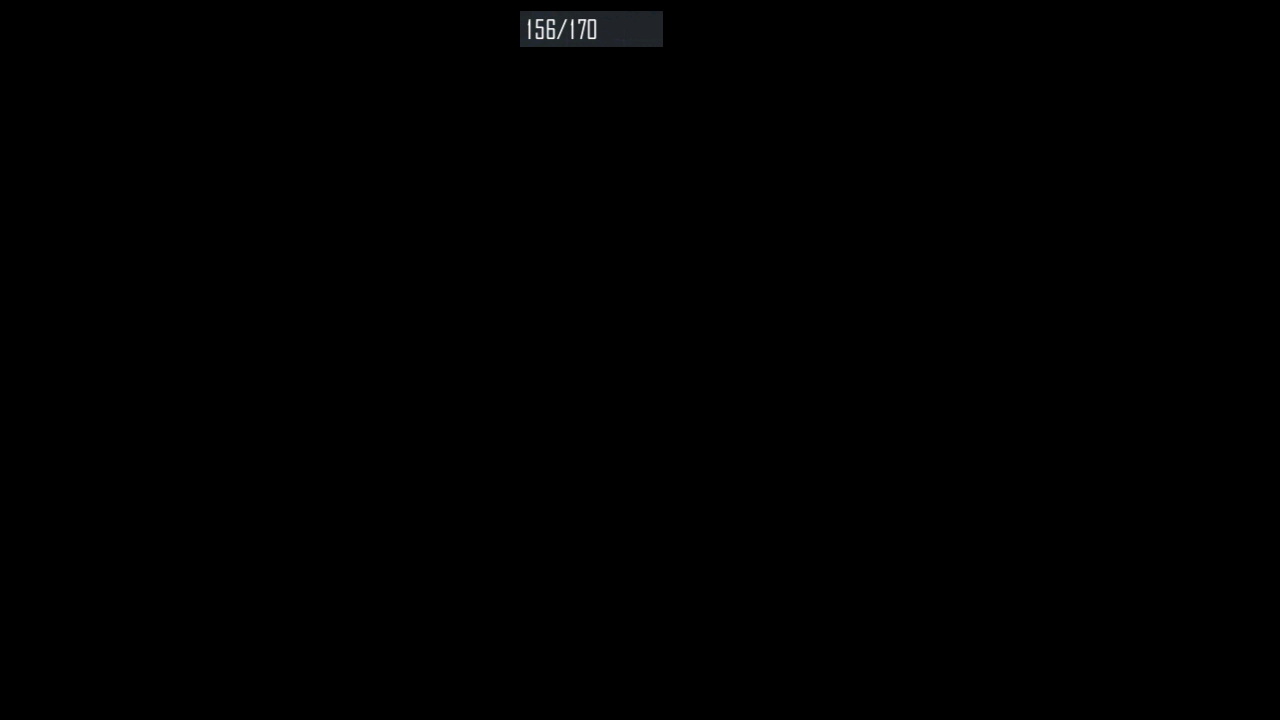
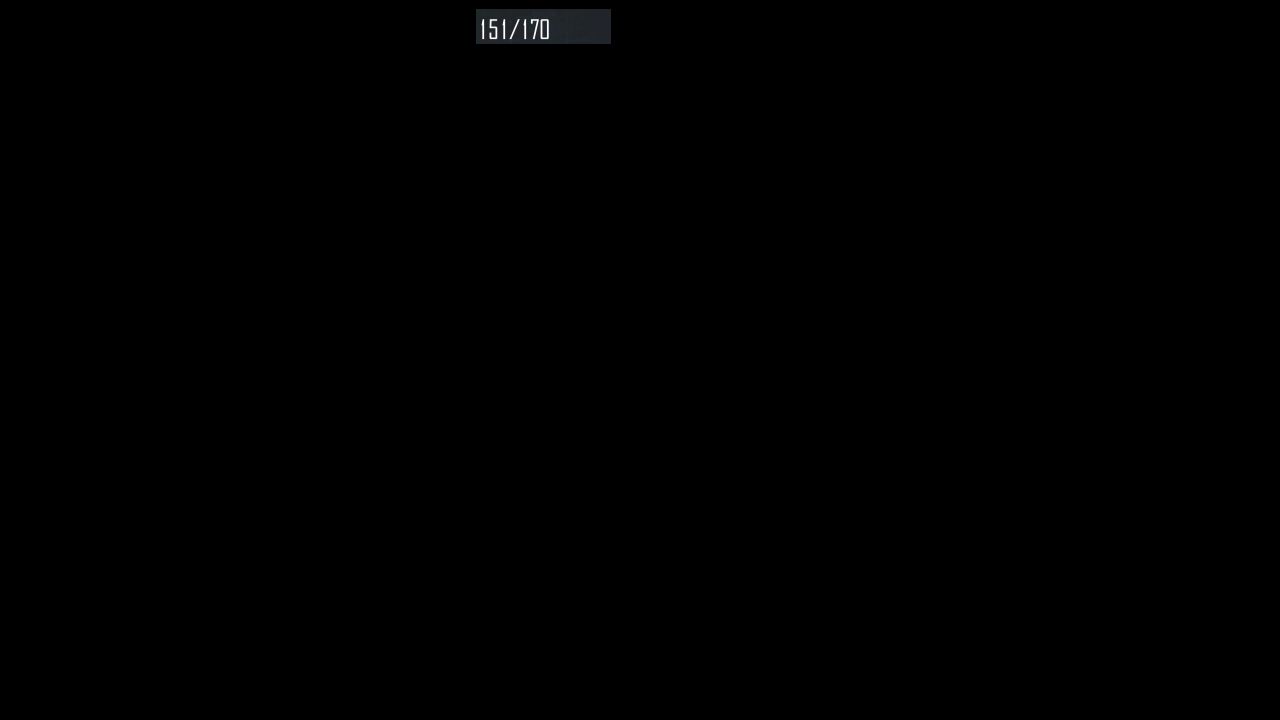
Fix: [EN] DOCK_AMOUNT position shift; frequent inaccurate read Upd: [EN] RETIRE_SETTING_* assets

Changed region(s): [[0.375, 0.0, 0.5312, 0.0917]]

diff --git a/module/retire/assets.py b/module/retire/assets.py
@@ -6,7 +6,7 @@ from module.base.template import Template
 
 COMMON_SHIP_FILTER_DISABLE = Button(area={'cn': (666, 6, 802, 48), 'en': (665, 5, 803, 49), 'jp': (681, 12, 723, 38), 'tw': (666, 6, 802, 48)}, color={'cn': (71, 88, 125), 'en': (74, 90, 125), 'jp': (131, 144, 180), 'tw': (71, 88, 125)}, button={'cn': (666, 6, 802, 48), 'en': (665, 5, 803, 49), 'jp': (681, 12, 723, 38), 'tw': (666, 6, 802, 48)}, file={'cn': './assets/cn/retire/COMMON_SHIP_FILTER_DISABLE.png', 'en': './assets/en/retire/COMMON_SHIP_FILTER_DISABLE.png', 'jp': './assets/jp/retire/COMMON_SHIP_FILTER_DISABLE.png', 'tw': './assets/tw/retire/COMMON_SHIP_FILTER_DISABLE.png'})
 COMMON_SHIP_FILTER_ENABLE = Button(area={'cn': (666, 6, 802, 48), 'en': (665, 5, 803, 49), 'jp': (681, 12, 723, 38), 'tw': (666, 6, 802, 48)}, color={'cn': (182, 145, 96), 'en': (183, 145, 94), 'jp': (217, 178, 136), 'tw': (182, 145, 96)}, button={'cn': (666, 6, 802, 48), 'en': (665, 5, 803, 49), 'jp': (681, 12, 723, 38), 'tw': (666, 6, 802, 48)}, file={'cn': './assets/cn/retire/COMMON_SHIP_FILTER_ENABLE.png', 'en': './assets/en/retire/COMMON_SHIP_FILTER_ENABLE.png', 'jp': './assets/jp/retire/COMMON_SHIP_FILTER_ENABLE.png', 'tw': './assets/tw/retire/COMMON_SHIP_FILTER_ENABLE.png'})
-DOCK_AMOUNT = Button(area={'cn': (473, 17, 611, 41), 'en': (520, 11, 663, 47), 'jp': (473, 17, 611, 41), 'tw': (473, 17, 611, 41)}, color={'cn': (71, 74, 78), 'en': (50, 54, 58), 'jp': (71, 74, 78), 'tw': (71, 74, 78)}, button={'cn': (473, 17, 611, 41), 'en': (520, 11, 663, 47), 'jp': (473, 17, 611, 41), 'tw': (473, 17, 611, 41)}, file={'cn': './assets/cn/retire/DOCK_AMOUNT.png', 'en': './assets/en/retire/DOCK_AMOUNT.png', 'jp': './assets/jp/retire/DOCK_AMOUNT.png', 'tw': './assets/tw/retire/DOCK_AMOUNT.png'})
+DOCK_AMOUNT = Button(area={'cn': (473, 17, 611, 41), 'en': (476, 9, 611, 44), 'jp': (473, 17, 611, 41), 'tw': (473, 17, 611, 41)}, color={'cn': (71, 74, 78), 'en': (50, 54, 58), 'jp': (71, 74, 78), 'tw': (71, 74, 78)}, button={'cn': (473, 17, 611, 41), 'en': (476, 9, 611, 44), 'jp': (473, 17, 611, 41), 'tw': (473, 17, 611, 41)}, file={'cn': './assets/cn/retire/DOCK_AMOUNT.png', 'en': './assets/en/retire/DOCK_AMOUNT.png', 'jp': './assets/jp/retire/DOCK_AMOUNT.png', 'tw': './assets/tw/retire/DOCK_AMOUNT.png'})
 DOCK_CHECK = Button(area={'cn': (121, 14, 175, 39), 'en': (121, 17, 189, 39), 'jp': (123, 15, 195, 38), 'tw': (121, 13, 176, 39)}, color={'cn': (156, 171, 207), 'en': (112, 125, 162), 'jp': (97, 108, 142), 'tw': (149, 164, 200)}, button={'cn': (121, 14, 175, 39), 'en': (121, 17, 189, 39), 'jp': (123, 15, 195, 38), 'tw': (121, 13, 176, 39)}, file={'cn': './assets/cn/retire/DOCK_CHECK.png', 'en': './assets/en/retire/DOCK_CHECK.png', 'jp': './assets/jp/retire/DOCK_CHECK.png', 'tw': './assets/tw/retire/DOCK_CHECK.png'})
 DOCK_EMPTY = Button(area={'cn': (95, 347, 388, 378), 'en': (95, 318, 264, 339), 'jp': (96, 347, 252, 376), 'tw': (94, 347, 390, 379)}, color={'cn': (160, 154, 159), 'en': (106, 99, 106), 'jp': (159, 152, 156), 'tw': (163, 157, 162)}, button={'cn': (95, 347, 388, 378), 'en': (95, 318, 264, 339), 'jp': (96, 347, 252, 376), 'tw': (94, 347, 390, 379)}, file={'cn': './assets/cn/retire/DOCK_EMPTY.png', 'en': './assets/en/retire/DOCK_EMPTY.png', 'jp': './assets/jp/retire/DOCK_EMPTY.png', 'tw': './assets/tw/retire/DOCK_EMPTY.png'})
 DOCK_FILTER = Button(area={'cn': (1099, 5, 1193, 48), 'en': (1098, 4, 1194, 49), 'jp': (1101, 6, 1192, 46), 'tw': (1099, 6, 1193, 47)}, color={'cn': (70, 87, 127), 'en': (73, 90, 128), 'jp': (67, 84, 125), 'tw': (78, 96, 137)}, button={'cn': (1099, 5, 1193, 48), 'en': (1098, 4, 1194, 49), 'jp': (1101, 6, 1192, 46), 'tw': (1099, 6, 1193, 47)}, file={'cn': './assets/cn/retire/DOCK_FILTER.png', 'en': './assets/en/retire/DOCK_FILTER.png', 'jp': './assets/jp/retire/DOCK_FILTER.png', 'tw': './assets/tw/retire/DOCK_FILTER.png'})
@@ -27,14 +27,14 @@ RETIRE_APPEAR_1 = Button(area={'cn': (404, 501, 477, 532), 'en': (408, 497, 472,
 RETIRE_APPEAR_2 = Button(area={'cn': (604, 501, 677, 533), 'en': (585, 496, 694, 527), 'jp': (604, 497, 677, 529), 'tw': (603, 501, 677, 533)}, color={'cn': (146, 178, 219), 'en': (146, 179, 220), 'jp': (136, 171, 215), 'tw': (145, 177, 218)}, button={'cn': (604, 501, 677, 533), 'en': (585, 496, 694, 527), 'jp': (604, 497, 677, 529), 'tw': (603, 501, 677, 533)}, file={'cn': './assets/cn/retire/RETIRE_APPEAR_2.png', 'en': './assets/en/retire/RETIRE_APPEAR_2.png', 'jp': './assets/jp/retire/RETIRE_APPEAR_2.png', 'tw': './assets/tw/retire/RETIRE_APPEAR_2.png'})
 RETIRE_APPEAR_3 = Button(area={'cn': (804, 501, 876, 533), 'en': (776, 496, 904, 521), 'jp': (804, 497, 876, 529), 'tw': (804, 501, 877, 533)}, color={'cn': (148, 179, 219), 'en': (155, 184, 222), 'jp': (136, 170, 214), 'tw': (147, 179, 219)}, button={'cn': (804, 501, 876, 533), 'en': (776, 496, 904, 521), 'jp': (804, 497, 876, 529), 'tw': (804, 501, 877, 533)}, file={'cn': './assets/cn/retire/RETIRE_APPEAR_3.png', 'en': './assets/en/retire/RETIRE_APPEAR_3.png', 'jp': './assets/jp/retire/RETIRE_APPEAR_3.png', 'tw': './assets/tw/retire/RETIRE_APPEAR_3.png'})
 RETIRE_COIN = Button(area={'cn': (307, 638, 351, 661), 'en': (307, 634, 352, 664), 'jp': (307, 636, 348, 664), 'tw': (307, 638, 351, 661)}, color={'cn': (150, 158, 165), 'en': (161, 165, 172), 'jp': (138, 145, 152), 'tw': (150, 158, 165)}, button={'cn': (307, 638, 351, 661), 'en': (307, 634, 352, 664), 'jp': (307, 636, 348, 664), 'tw': (307, 638, 351, 661)}, file={'cn': './assets/cn/retire/RETIRE_COIN.png', 'en': './assets/en/retire/RETIRE_COIN.png', 'jp': './assets/jp/retire/RETIRE_COIN.png', 'tw': './assets/tw/retire/RETIRE_COIN.png'})
-RETIRE_SETTING_1 = Button(area={'cn': (819, 215, 846, 244), 'en': (819, 215, 846, 244), 'jp': (819, 215, 846, 244), 'tw': (819, 215, 846, 244)}, color={'cn': (110, 131, 156), 'en': (110, 131, 156), 'jp': (110, 131, 156), 'tw': (110, 131, 156)}, button={'cn': (819, 215, 846, 244), 'en': (819, 215, 846, 244), 'jp': (819, 215, 846, 244), 'tw': (819, 215, 846, 244)}, file={'cn': './assets/cn/retire/RETIRE_SETTING_1.png', 'en': './assets/cn/retire/RETIRE_SETTING_1.png', 'jp': './assets/cn/retire/RETIRE_SETTING_1.png', 'tw': './assets/cn/retire/RETIRE_SETTING_1.png'})
-RETIRE_SETTING_2 = Button(area={'cn': (747, 276, 775, 304), 'en': (747, 276, 775, 304), 'jp': (747, 276, 775, 304), 'tw': (747, 276, 775, 304)}, color={'cn': (109, 130, 155), 'en': (109, 130, 155), 'jp': (109, 130, 155), 'tw': (109, 130, 155)}, button={'cn': (747, 276, 775, 304), 'en': (747, 276, 775, 304), 'jp': (747, 276, 775, 304), 'tw': (747, 276, 775, 304)}, file={'cn': './assets/cn/retire/RETIRE_SETTING_2.png', 'en': './assets/cn/retire/RETIRE_SETTING_2.png', 'jp': './assets/cn/retire/RETIRE_SETTING_2.png', 'tw': './assets/cn/retire/RETIRE_SETTING_2.png'})
-RETIRE_SETTING_3 = Button(area={'cn': (894, 336, 923, 365), 'en': (894, 336, 923, 365), 'jp': (894, 336, 923, 365), 'tw': (894, 336, 923, 365)}, color={'cn': (105, 126, 151), 'en': (105, 126, 151), 'jp': (105, 126, 151), 'tw': (105, 126, 151)}, button={'cn': (894, 336, 923, 365), 'en': (894, 336, 923, 365), 'jp': (894, 336, 923, 365), 'tw': (894, 336, 923, 365)}, file={'cn': './assets/cn/retire/RETIRE_SETTING_3.png', 'en': './assets/cn/retire/RETIRE_SETTING_3.png', 'jp': './assets/cn/retire/RETIRE_SETTING_3.png', 'tw': './assets/cn/retire/RETIRE_SETTING_3.png'})
-RETIRE_SETTING_4 = Button(area={'cn': (970, 436, 997, 463), 'en': (970, 436, 997, 463), 'jp': (970, 436, 997, 463), 'tw': (970, 436, 997, 463)}, color={'cn': (105, 127, 154), 'en': (105, 127, 154), 'jp': (105, 127, 154), 'tw': (105, 127, 154)}, button={'cn': (970, 436, 997, 463), 'en': (970, 436, 997, 463), 'jp': (970, 436, 997, 463), 'tw': (970, 436, 997, 463)}, file={'cn': './assets/cn/retire/RETIRE_SETTING_4.png', 'en': './assets/cn/retire/RETIRE_SETTING_4.png', 'jp': './assets/cn/retire/RETIRE_SETTING_4.png', 'tw': './assets/cn/retire/RETIRE_SETTING_4.png'})
-RETIRE_SETTING_5_ALL = Button(area={'cn': (970, 537, 997, 563), 'en': (970, 537, 997, 563), 'jp': (970, 537, 997, 563), 'tw': (970, 537, 997, 563)}, color={'cn': (106, 128, 153), 'en': (106, 128, 153), 'jp': (106, 128, 153), 'tw': (106, 128, 153)}, button={'cn': (970, 537, 997, 563), 'en': (970, 537, 997, 563), 'jp': (970, 537, 997, 563), 'tw': (970, 537, 997, 563)}, file={'cn': './assets/cn/retire/RETIRE_SETTING_5_ALL.png', 'en': './assets/cn/retire/RETIRE_SETTING_5_ALL.png', 'jp': './assets/cn/retire/RETIRE_SETTING_5_ALL.png', 'tw': './assets/cn/retire/RETIRE_SETTING_5_ALL.png'})
-RETIRE_SETTING_5_PRESERVE = Button(area={'cn': (863, 538, 890, 563), 'en': (863, 538, 890, 563), 'jp': (863, 538, 890, 563), 'tw': (863, 538, 890, 563)}, color={'cn': (62, 70, 92), 'en': (62, 70, 92), 'jp': (62, 70, 92), 'tw': (62, 70, 92)}, button={'cn': (863, 538, 890, 563), 'en': (863, 538, 890, 563), 'jp': (863, 538, 890, 563), 'tw': (863, 538, 890, 563)}, file={'cn': './assets/cn/retire/RETIRE_SETTING_5_PRESERVE.png', 'en': './assets/cn/retire/RETIRE_SETTING_5_PRESERVE.png', 'jp': './assets/cn/retire/RETIRE_SETTING_5_PRESERVE.png', 'tw': './assets/cn/retire/RETIRE_SETTING_5_PRESERVE.png'})
+RETIRE_SETTING_1 = Button(area={'cn': (819, 215, 846, 244), 'en': (817, 187, 849, 219), 'jp': (819, 215, 846, 244), 'tw': (819, 215, 846, 244)}, color={'cn': (110, 131, 156), 'en': (96, 115, 140), 'jp': (110, 131, 156), 'tw': (110, 131, 156)}, button={'cn': (819, 215, 846, 244), 'en': (817, 187, 849, 219), 'jp': (819, 215, 846, 244), 'tw': (819, 215, 846, 244)}, file={'cn': './assets/cn/retire/RETIRE_SETTING_1.png', 'en': './assets/en/retire/RETIRE_SETTING_1.png', 'jp': './assets/cn/retire/RETIRE_SETTING_1.png', 'tw': './assets/cn/retire/RETIRE_SETTING_1.png'})
+RETIRE_SETTING_2 = Button(area={'cn': (747, 276, 775, 304), 'en': (745, 247, 777, 279), 'jp': (747, 276, 775, 304), 'tw': (747, 276, 775, 304)}, color={'cn': (109, 130, 155), 'en': (96, 114, 139), 'jp': (109, 130, 155), 'tw': (109, 130, 155)}, button={'cn': (747, 276, 775, 304), 'en': (745, 247, 777, 279), 'jp': (747, 276, 775, 304), 'tw': (747, 276, 775, 304)}, file={'cn': './assets/cn/retire/RETIRE_SETTING_2.png', 'en': './assets/en/retire/RETIRE_SETTING_2.png', 'jp': './assets/cn/retire/RETIRE_SETTING_2.png', 'tw': './assets/cn/retire/RETIRE_SETTING_2.png'})
+RETIRE_SETTING_3 = Button(area={'cn': (894, 336, 923, 365), 'en': (893, 307, 925, 339), 'jp': (894, 336, 923, 365), 'tw': (894, 336, 923, 365)}, color={'cn': (105, 126, 151), 'en': (96, 115, 140), 'jp': (105, 126, 151), 'tw': (105, 126, 151)}, button={'cn': (894, 336, 923, 365), 'en': (893, 307, 925, 339), 'jp': (894, 336, 923, 365), 'tw': (894, 336, 923, 365)}, file={'cn': './assets/cn/retire/RETIRE_SETTING_3.png', 'en': './assets/en/retire/RETIRE_SETTING_3.png', 'jp': './assets/cn/retire/RETIRE_SETTING_3.png', 'tw': './assets/cn/retire/RETIRE_SETTING_3.png'})
+RETIRE_SETTING_4 = Button(area={'cn': (970, 436, 997, 463), 'en': (969, 435, 998, 464), 'jp': (970, 436, 997, 463), 'tw': (970, 436, 997, 463)}, color={'cn': (105, 127, 154), 'en': (100, 121, 147), 'jp': (105, 127, 154), 'tw': (105, 127, 154)}, button={'cn': (970, 436, 997, 463), 'en': (969, 435, 998, 464), 'jp': (970, 436, 997, 463), 'tw': (970, 436, 997, 463)}, file={'cn': './assets/cn/retire/RETIRE_SETTING_4.png', 'en': './assets/en/retire/RETIRE_SETTING_4.png', 'jp': './assets/cn/retire/RETIRE_SETTING_4.png', 'tw': './assets/cn/retire/RETIRE_SETTING_4.png'})
+RETIRE_SETTING_5_ALL = Button(area={'cn': (970, 537, 997, 563), 'en': (969, 436, 998, 465), 'jp': (970, 537, 997, 563), 'tw': (970, 537, 997, 563)}, color={'cn': (106, 128, 153), 'en': (100, 121, 147), 'jp': (106, 128, 153), 'tw': (106, 128, 153)}, button={'cn': (970, 537, 997, 563), 'en': (969, 436, 998, 465), 'jp': (970, 537, 997, 563), 'tw': (970, 537, 997, 563)}, file={'cn': './assets/cn/retire/RETIRE_SETTING_5_ALL.png', 'en': './assets/en/retire/RETIRE_SETTING_5_ALL.png', 'jp': './assets/cn/retire/RETIRE_SETTING_5_ALL.png', 'tw': './assets/cn/retire/RETIRE_SETTING_5_ALL.png'})
+RETIRE_SETTING_5_PRESERVE = Button(area={'cn': (863, 538, 890, 563), 'en': (832, 562, 861, 591), 'jp': (863, 538, 890, 563), 'tw': (863, 538, 890, 563)}, color={'cn': (62, 70, 92), 'en': (60, 69, 91), 'jp': (62, 70, 92), 'tw': (62, 70, 92)}, button={'cn': (863, 538, 890, 563), 'en': (832, 562, 861, 591), 'jp': (863, 538, 890, 563), 'tw': (863, 538, 890, 563)}, file={'cn': './assets/cn/retire/RETIRE_SETTING_5_PRESERVE.png', 'en': './assets/en/retire/RETIRE_SETTING_5_PRESERVE.png', 'jp': './assets/cn/retire/RETIRE_SETTING_5_PRESERVE.png', 'tw': './assets/cn/retire/RETIRE_SETTING_5_PRESERVE.png'})
 RETIRE_SETTING_ENTER = Button(area={'cn': (20, 501, 50, 531), 'en': (20, 501, 50, 531), 'jp': (20, 501, 50, 531), 'tw': (20, 501, 50, 531)}, color={'cn': (181, 181, 182), 'en': (181, 181, 182), 'jp': (181, 181, 182), 'tw': (181, 181, 182)}, button={'cn': (20, 501, 50, 531), 'en': (20, 501, 50, 531), 'jp': (20, 501, 50, 531), 'tw': (20, 501, 50, 531)}, file={'cn': './assets/cn/retire/RETIRE_SETTING_ENTER.png', 'en': './assets/en/retire/RETIRE_SETTING_ENTER.png', 'jp': './assets/jp/retire/RETIRE_SETTING_ENTER.png', 'tw': './assets/tw/retire/RETIRE_SETTING_ENTER.png'})
-RETIRE_SETTING_QUIT = Button(area={'cn': (986, 140, 1016, 169), 'en': (986, 140, 1016, 169), 'jp': (986, 140, 1016, 169), 'tw': (986, 140, 1016, 169)}, color={'cn': (224, 118, 113), 'en': (224, 118, 113), 'jp': (224, 118, 113), 'tw': (224, 118, 113)}, button={'cn': (986, 140, 1016, 169), 'en': (986, 140, 1016, 169), 'jp': (986, 140, 1016, 169), 'tw': (986, 140, 1016, 169)}, file={'cn': './assets/cn/retire/RETIRE_SETTING_QUIT.png', 'en': './assets/en/retire/RETIRE_SETTING_QUIT.png', 'jp': './assets/jp/retire/RETIRE_SETTING_QUIT.png', 'tw': './assets/tw/retire/RETIRE_SETTING_QUIT.png'})
+RETIRE_SETTING_QUIT = Button(area={'cn': (986, 140, 1016, 169), 'en': (983, 113, 1019, 149), 'jp': (986, 140, 1016, 169), 'tw': (986, 140, 1016, 169)}, color={'cn': (224, 118, 113), 'en': (208, 99, 95), 'jp': (224, 118, 113), 'tw': (224, 118, 113)}, button={'cn': (986, 140, 1016, 169), 'en': (983, 113, 1019, 149), 'jp': (986, 140, 1016, 169), 'tw': (986, 140, 1016, 169)}, file={'cn': './assets/cn/retire/RETIRE_SETTING_QUIT.png', 'en': './assets/en/retire/RETIRE_SETTING_QUIT.png', 'jp': './assets/jp/retire/RETIRE_SETTING_QUIT.png', 'tw': './assets/tw/retire/RETIRE_SETTING_QUIT.png'})
 SHIP_CONFIRM = Button(area={'cn': (1069, 641, 1241, 698), 'en': (1076, 644, 1235, 688), 'jp': (1069, 641, 1242, 697), 'tw': (1071, 641, 1241, 698)}, color={'cn': (84, 131, 190), 'en': (108, 147, 198), 'jp': (82, 128, 187), 'tw': (83, 130, 190)}, button={'cn': (1069, 641, 1241, 698), 'en': (1076, 644, 1235, 688), 'jp': (1069, 641, 1242, 697), 'tw': (1071, 641, 1241, 698)}, file={'cn': './assets/cn/retire/SHIP_CONFIRM.png', 'en': './assets/en/retire/SHIP_CONFIRM.png', 'jp': './assets/jp/retire/SHIP_CONFIRM.png', 'tw': './assets/tw/retire/SHIP_CONFIRM.png'})
 SHIP_CONFIRM_2 = Button(area={'cn': (928, 617, 1100, 674), 'en': (927, 615, 1101, 675), 'jp': (928, 617, 1100, 673), 'tw': (929, 616, 1099, 673)}, color={'cn': (95, 143, 203), 'en': (104, 149, 206), 'jp': (93, 140, 200), 'tw': (94, 142, 203)}, button={'cn': (928, 617, 1100, 674), 'en': (927, 615, 1101, 675), 'jp': (928, 617, 1100, 673), 'tw': (929, 616, 1099, 673)}, file={'cn': './assets/cn/retire/SHIP_CONFIRM_2.png', 'en': './assets/en/retire/SHIP_CONFIRM_2.png', 'jp': './assets/jp/retire/SHIP_CONFIRM_2.png', 'tw': './assets/tw/retire/SHIP_CONFIRM_2.png'})
 SHIP_DETAIL_CHECK = Button(area={'cn': (121, 15, 230, 40), 'en': (126, 16, 225, 39), 'jp': (126, 15, 179, 39), 'tw': (121, 14, 228, 40)}, color={'cn': (152, 168, 206), 'en': (125, 138, 179), 'jp': (168, 183, 217), 'tw': (147, 164, 203)}, button={'cn': (121, 15, 230, 40), 'en': (126, 16, 225, 39), 'jp': (126, 15, 179, 39), 'tw': (121, 14, 228, 40)}, file={'cn': './assets/cn/retire/SHIP_DETAIL_CHECK.png', 'en': './assets/en/retire/SHIP_DETAIL_CHECK.png', 'jp': './assets/jp/retire/SHIP_DETAIL_CHECK.png', 'tw': './assets/tw/retire/SHIP_DETAIL_CHECK.png'})
